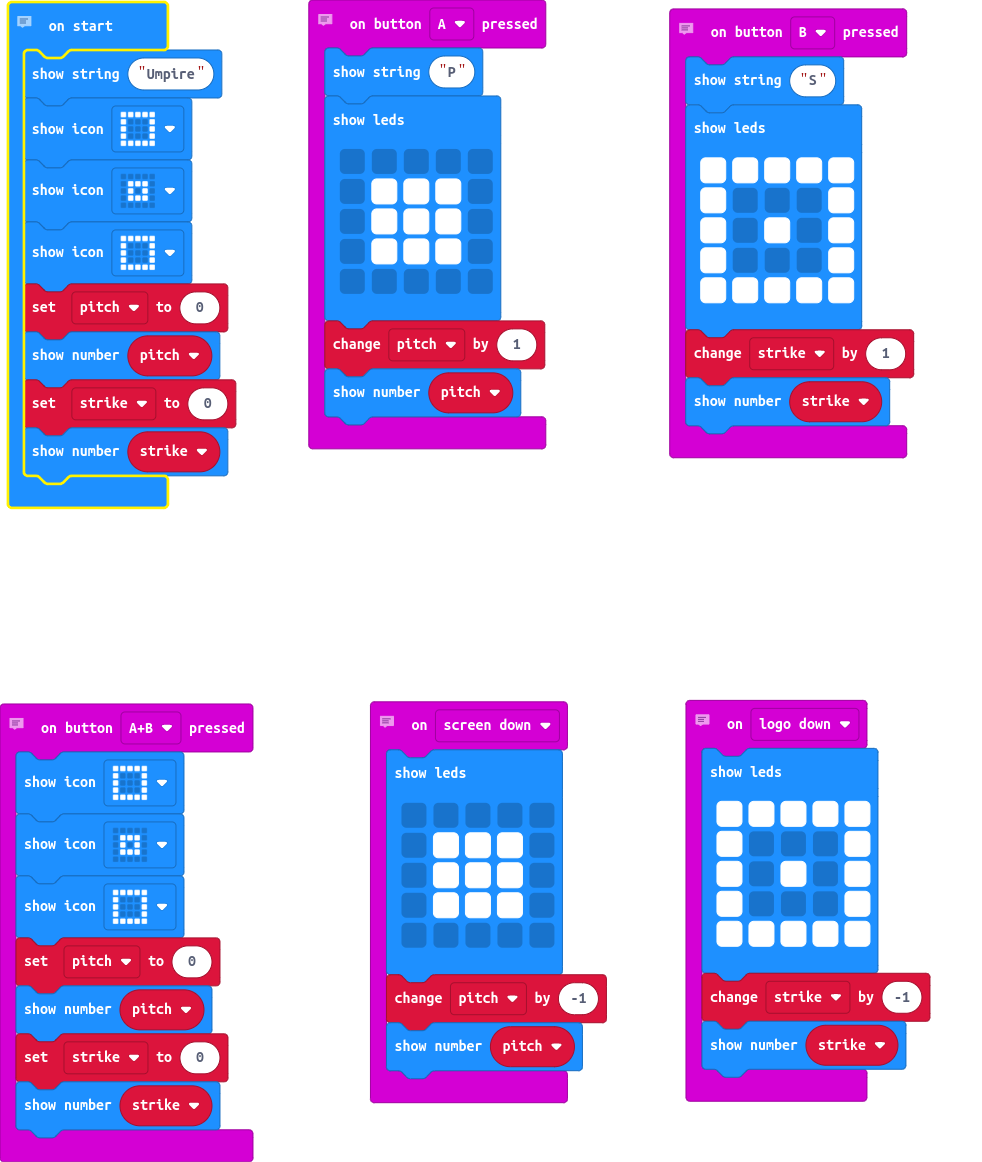
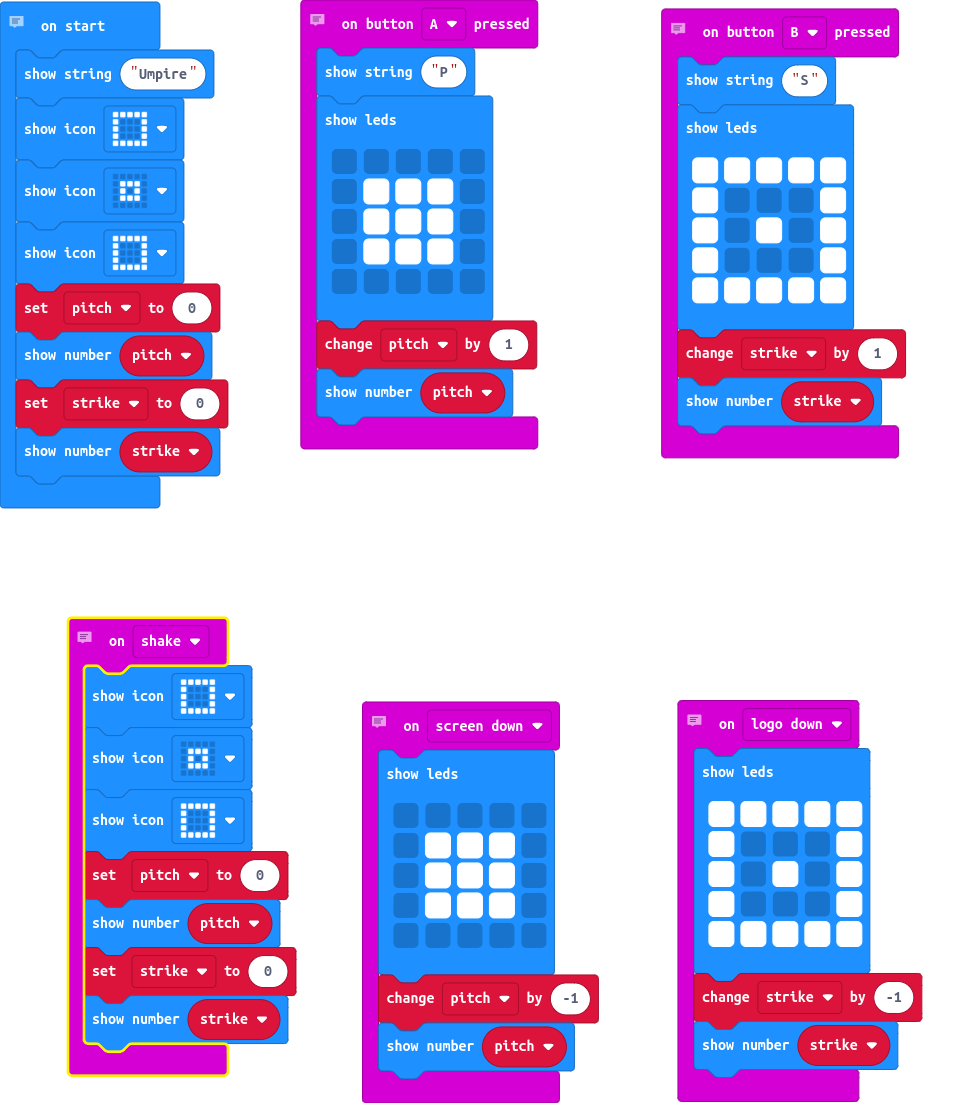
stays same; A+B to Shake

diff --git a/main.ts b/main.ts
@@ -23,16 +23,6 @@ input.onGesture(Gesture.ScreenDown, function () {
     pitch += -1
     basic.showNumber(pitch)
 })
-// on button A+B, resets program to 0
-input.onButtonPressed(Button.AB, function () {
-    basic.showIcon(IconNames.Square)
-    basic.showIcon(IconNames.SmallSquare)
-    basic.showIcon(IconNames.Square)
-    pitch = 0
-    basic.showNumber(pitch)
-    strike = 0
-    basic.showNumber(strike)
-})
 // on button B, strike goes up by 1
 input.onButtonPressed(Button.B, function () {
     basic.showString("S")
@@ -44,6 +34,16 @@ input.onButtonPressed(Button.B, function () {
         # # # # #
         `)
     strike += 1
+    basic.showNumber(strike)
+})
+// on shake, resets program to 0
+input.onGesture(Gesture.Shake, function () {
+    basic.showIcon(IconNames.Square)
+    basic.showIcon(IconNames.SmallSquare)
+    basic.showIcon(IconNames.Square)
+    pitch = 0
+    basic.showNumber(pitch)
+    strike = 0
     basic.showNumber(strike)
 })
 // on logo down, strike goes down by 1
